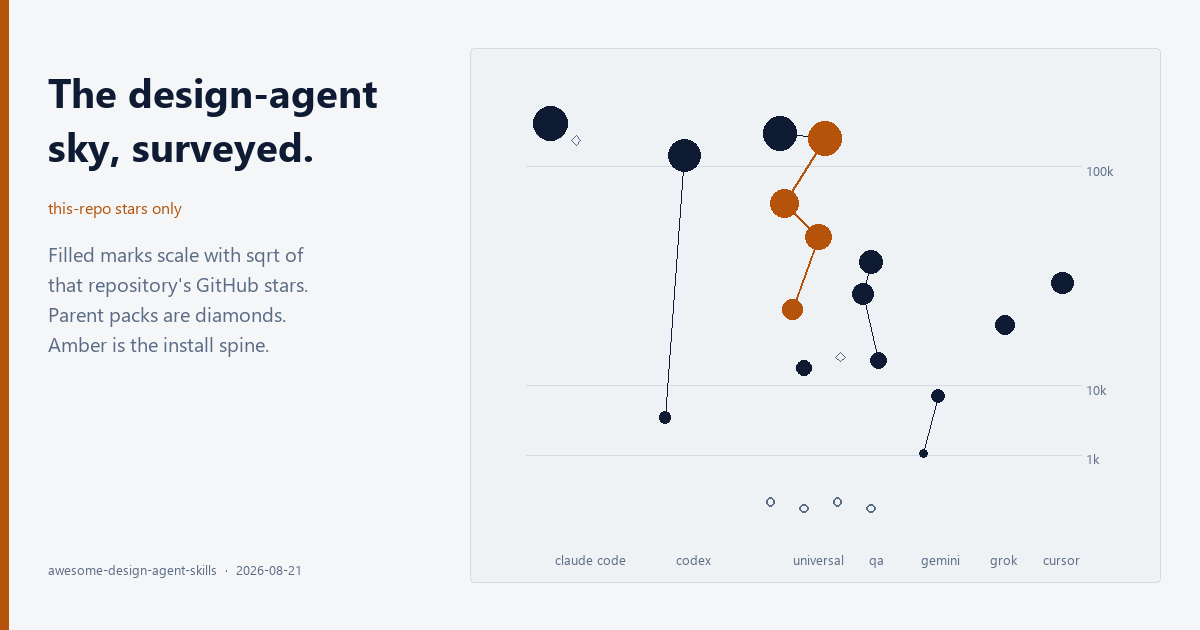
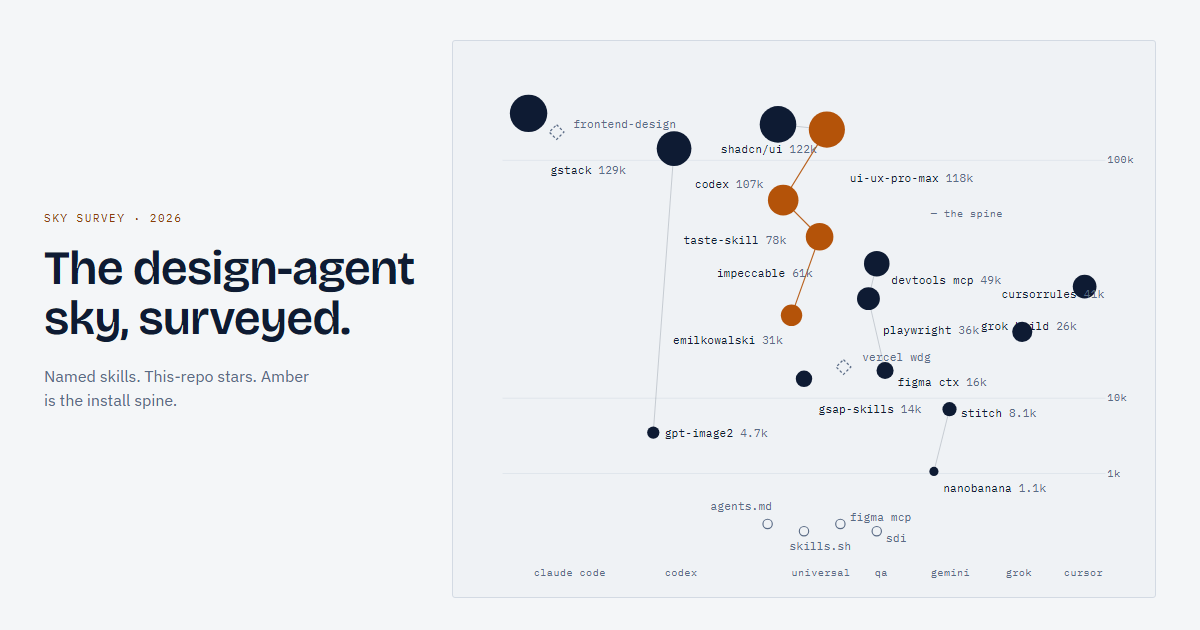
fix(og): screenshot the labeled plate instead of drawing unlabeled blobs (#11)
The first OG was a PIL scatter with no skill names — a cartoon of the
survey. og.html is now a 1200x630 artboard of the compiled plate;
render-og.py captures it with Chrome. Parent-pack star counts no longer
appear on the figure.

diff --git a/docs/site/og.html b/docs/site/og.html
@@ -1,0 +1,94 @@
+<!doctype html>
+<html lang="en">
+<head>
+<meta charset="utf-8">
+<title>OG — the design-agent sky</title>
+<link rel="preconnect" href="https://fonts.googleapis.com">
+<link rel="preconnect" href="https://fonts.gstatic.com" crossorigin>
+<link href="https://fonts.googleapis.com/css2?family=Bricolage+Grotesque:opsz,wght@12..96,600&family=IBM+Plex+Mono:wght@400;500&family=IBM+Plex+Sans:wght@400;500&display=swap" rel="stylesheet">
+<style>
+  html,body{margin:0;width:1200px;height:630px;overflow:hidden;background:#F4F6F8;color:#0E1B33}
+  body{font-family:"IBM Plex Sans",system-ui,sans-serif}
+  .board{
+    width:1200px;height:630px;box-sizing:border-box;
+    display:grid;grid-template-columns:380px 1fr;gap:28px;
+    padding:40px 44px 36px;align-items:center;
+  }
+  .kicker{font-family:"IBM Plex Mono",ui-monospace,monospace;font-size:11px;letter-spacing:.14em;
+          text-transform:uppercase;color:#8A3F07;margin:0 0 18px}
+  h1{font-family:"Bricolage Grotesque",Georgia,serif;font-weight:600;font-size:48px;line-height:1.05;
+     letter-spacing:-.015em;margin:0}
+  .note{margin-top:22px;color:#5A6B85;font-size:16px;line-height:1.45;max-width:28ch}
+  .frame{background:#EFF2F5;border:1px solid #D3DAE3;border-radius:3px;padding:10px 8px 6px}
+  svg{display:block;width:100%;height:auto}
+  svg text{font-family:"IBM Plex Mono",ui-monospace,monospace}
+  .star{fill:#0E1B33}
+  .star.spine{fill:#B45309}
+  .ringed{fill:none;stroke:#5A6B85;stroke-width:1.1}
+  .parent{fill:none;stroke:#5A6B85;stroke-width:1.2;stroke-dasharray:2.5 2}
+  .cline{stroke:#0E1B33;stroke-width:.5;opacity:.34;fill:none}
+  .cline.spine{stroke:#B45309;stroke-width:1.1;opacity:.9}
+  .grat{stroke:#D3DAE3;stroke-width:.5}
+  .lbl{fill:#0E1B33;font-size:11px}
+  .lbl .n,.lbl.n{fill:#5A6B85}
+  .axis{fill:#5A6B85;font-size:10px;letter-spacing:.03em}
+</style>
+</head>
+<body>
+<div class="board">
+  <div>
+    <p class="kicker">Sky survey · 2026</p>
+    <h1>The design-agent<br>sky, surveyed.</h1>
+    <p class="note">Named skills. This-repo stars. Amber is the install spine.</p>
+  </div>
+  <div class="frame">
+    <svg viewBox="0 0 660 520" role="img">
+<!-- plate:auto:start -->
+        <line class="grat" x1="40" y1="105.2" x2="620" y2="105.2"/>
+        <line class="grat" x1="40" y1="334.1" x2="620" y2="334.1"/>
+        <line class="grat" x1="40" y1="406.5" x2="620" y2="406.5"/>
+        <text class="axis" x="622" y="108.2">100k</text>
+        <text class="axis" x="622" y="337.1">10k</text>
+        <text class="axis" x="622" y="409.5">1k</text>
+        <text class="axis" x="70" y="505">claude code</text>
+        <text class="axis" x="196" y="505">codex</text>
+        <text class="axis" x="318" y="505">universal</text>
+        <text class="axis" x="398" y="505">qa</text>
+        <text class="axis" x="452" y="505">gemini</text>
+        <text class="axis" x="524" y="505">grok</text>
+        <text class="axis" x="580" y="505">cursor</text>
+        <polyline class="cline" points="205,93.9 185,367.1"/>
+        <polyline class="cline" points="305,70.6 352,75.6"/>
+        <polyline class="cline" points="400,204.6 392,238.3"/>
+        <polyline class="cline" points="392,238.3 408,307.4"/>
+        <polyline class="cline" points="470,344.6 455,404.5"/>
+        <polyline class="cline spine" points="352,75.6 310,143.5 345,178.7 318,254.3"/>
+        <g class="cg"><circle class="star s1" cx="65" cy="60" r="18"/><text class="lbl" x="86" y="118">gstack <tspan class="n">129k</tspan></text></g>
+        <g class="cg"><circle class="star s2" cx="305" cy="70.6" r="17.6"/><text class="lbl" x="250" y="98">shadcn/ui <tspan class="n">122k</tspan></text></g>
+        <g class="cg"><circle class="star spine s3" cx="352" cy="75.6" r="17.4"/><text class="lbl" x="374" y="126">ui-ux-pro-max <tspan class="n">118k</tspan></text></g>
+        <g class="cg"><circle class="star s4" cx="205" cy="93.9" r="16.7"/><text class="lbl" x="225" y="132">codex <tspan class="n">107k</tspan></text></g>
+        <g class="cg"><circle class="star spine s5" cx="310" cy="143.5" r="14.7"/><text class="lbl" x="214" y="186">taste-skill <tspan class="n">78k</tspan></text></g>
+        <g class="cg"><circle class="star spine s6" cx="345" cy="178.7" r="13.3"/><text class="lbl" x="246" y="217">impeccable <tspan class="n">61k</tspan></text></g>
+        <g class="cg"><circle class="star s7" cx="400" cy="204.6" r="12.3"/><text class="lbl" x="414" y="224">devtools mcp <tspan class="n">49k</tspan></text></g>
+        <g class="cg"><circle class="star s8" cx="600" cy="226.6" r="11.4"/><text class="lbl" x="520" y="238">cursorrules <tspan class="n">41k</tspan></text></g>
+        <g class="cg"><circle class="star s9" cx="392" cy="238.3" r="11"/><text class="lbl" x="406" y="272">playwright <tspan class="n">36k</tspan></text></g>
+        <g class="cg"><circle class="star spine s10" cx="318" cy="254.3" r="10.3"/><text class="lbl" x="204" y="282">emilkowalski <tspan class="n">31k</tspan></text></g>
+        <g class="cg"><circle class="star s11" cx="540" cy="270.2" r="9.7"/><text class="lbl" x="500" y="268">grok build <tspan class="n">26k</tspan></text></g>
+        <g class="cg"><circle class="star s12" cx="408" cy="307.4" r="8.2"/><text class="lbl" x="420" y="322">figma ctx <tspan class="n">16k</tspan></text></g>
+        <g class="cg"><circle class="star s13" cx="330" cy="315.4" r="7.9"/><text class="lbl" x="344" y="348">gsap-skills <tspan class="n">14k</tspan></text></g>
+        <g class="cg"><circle class="star s14" cx="470" cy="344.6" r="6.8"/><text class="lbl" x="481" y="352">stitch <tspan class="n">8.1k</tspan></text></g>
+        <g class="cg"><circle class="star s15" cx="185" cy="367.1" r="5.9"/><text class="lbl" x="196" y="371">gpt-image2 <tspan class="n">4.7k</tspan></text></g>
+        <g class="cg"><circle class="star s16" cx="455" cy="404.5" r="4.4"/><text class="lbl" x="464" y="424">nanobanana <tspan class="n">1.1k</tspan></text></g>
+        <g class="cg"><rect class="parent s17" x="87.0" y="73.0" width="10" height="10" transform="rotate(45 92 78)"/><text class="lbl n" x="108" y="74">frontend-design</text></g>
+        <g class="cg"><rect class="parent s18" x="363.0" y="299.0" width="10" height="10" transform="rotate(45 368 304)"/><text class="lbl n" x="386" y="298">vercel wdg</text></g>
+        <g class="cg"><circle class="ringed s19" cx="295" cy="455" r="4.5"/><text class="lbl n" x="240" y="442">agents.md</text></g>
+        <g class="cg"><circle class="ringed s20" cx="330" cy="462" r="4.5"/><text class="lbl n" x="316" y="480">skills.sh</text></g>
+        <g class="cg"><circle class="ringed s21" cx="365" cy="455" r="4.5"/><text class="lbl n" x="374" y="452">figma mcp</text></g>
+        <g class="cg"><circle class="ringed s22" cx="400" cy="462" r="4.5"/><text class="lbl n" x="409" y="472">sdi</text></g>
+        <text class="axis" x="452" y="160" fill="var(--signal-deep)">— the spine</text>
+        <!-- plate:auto:end -->
+    </svg>
+  </div>
+</div>
+</body>
+</html>

diff --git a/docs/site/index.html b/docs/site/index.html
@@ -241,8 +241,8 @@
         <g class="cg"><circle class="star s14" cx="470" cy="344.6" r="6.8"/><text class="lbl" x="481" y="352">stitch <tspan class="n">8.1k</tspan></text></g>
         <g class="cg"><circle class="star s15" cx="185" cy="367.1" r="5.9"/><text class="lbl" x="196" y="371">gpt-image2 <tspan class="n">4.7k</tspan></text></g>
         <g class="cg"><circle class="star s16" cx="455" cy="404.5" r="4.4"/><text class="lbl" x="464" y="424">nanobanana <tspan class="n">1.1k</tspan></text></g>
-        <g class="cg"><rect class="parent s17" x="87.0" y="73.0" width="10" height="10" transform="rotate(45 92 78)"/><text class="lbl n" x="108" y="74">frontend-design <tspan class="n">parent 171k</tspan></text></g>
-        <g class="cg"><rect class="parent s18" x="363.0" y="299.0" width="10" height="10" transform="rotate(45 368 304)"/><text class="lbl n" x="386" y="298">vercel wdg <tspan class="n">parent 30k</tspan></text></g>
+        <g class="cg"><rect class="parent s17" x="87.0" y="73.0" width="10" height="10" transform="rotate(45 92 78)"/><text class="lbl n" x="108" y="74">frontend-design</text></g>
+        <g class="cg"><rect class="parent s18" x="363.0" y="299.0" width="10" height="10" transform="rotate(45 368 304)"/><text class="lbl n" x="386" y="298">vercel wdg</text></g>
         <g class="cg"><circle class="ringed s19" cx="295" cy="455" r="4.5"/><text class="lbl n" x="240" y="442">agents.md</text></g>
         <g class="cg"><circle class="ringed s20" cx="330" cy="462" r="4.5"/><text class="lbl n" x="316" y="480">skills.sh</text></g>
         <g class="cg"><circle class="ringed s21" cx="365" cy="455" r="4.5"/><text class="lbl n" x="374" y="452">figma mcp</text></g>

diff --git a/scripts/render-og.py b/scripts/render-og.py
@@ -1,121 +1,43 @@
 #!/usr/bin/env python3
-"""Rasterize docs/site/og.png from plate.json. Light-first, 1200x630.
-No network. Geometry comes from build-plate.mjs — never hand-plotted.
+"""Render docs/site/og.png from the designed og.html artboard via Chrome headless.
+The PNG is a screenshot of the labeled plate, not a redrawn blob chart.
 """
 from __future__ import annotations
 
-import json
-import math
+import subprocess
+import sys
 from pathlib import Path
 
-from PIL import Image, ImageDraw, ImageFont
-
 HERE = Path(__file__).resolve().parent
-PLATE = HERE.parent / "docs" / "site" / "plate.json"
-OUT = HERE.parent / "docs" / "site" / "og.png"
-
-PAPER = (244, 246, 248)
-INK = (14, 27, 51)
-SIGNAL = (180, 83, 9)
-DIM = (90, 107, 133)
-RULE = (211, 218, 227)
-PLATE_BG = (239, 242, 245)
-
-W, H = 1200, 630
-
-
-def font(size: int, bold: bool = False) -> ImageFont.FreeTypeFont | ImageFont.ImageFont:
-    candidates = []
-    if bold:
-        candidates += [
-            r"C:\Windows\Fonts\segoeuib.ttf",
-            r"C:\Windows\Fonts\arialbd.ttf",
-            "/usr/share/fonts/truetype/dejavu/DejaVuSans-Bold.ttf",
-        ]
-    candidates += [
-        r"C:\Windows\Fonts\segoeui.ttf",
-        r"C:\Windows\Fonts\arial.ttf",
-        r"C:\Windows\Fonts\consola.ttf",
-        "/usr/share/fonts/truetype/dejavu/DejaVuSans.ttf",
-    ]
-    for p in candidates:
-        try:
-            return ImageFont.truetype(p, size)
-        except OSError:
-            continue
-    return ImageFont.load_default()
+SITE = HERE.parent / "docs" / "site"
+HTML = SITE / "og.html"
+OUT = SITE / "og.png"
+CHROME = Path(r"C:\Program Files\Google\Chrome\Application\chrome.exe")
 
 
 def main() -> None:
-    data = json.loads(PLATE.read_text(encoding="utf-8"))
-    desk = data["desktop"]
-    im = Image.new("RGB", (W, H), PAPER)
-    d = ImageDraw.Draw(im)
-
-    d.rectangle((0, 0, 8, H), fill=SIGNAL)
-
-    title = font(40, bold=True)
-    sub = font(20)
-    mono = font(16)
-    tiny = font(13)
-
-    d.text((48, 64), "The design-agent", font=title, fill=INK)
-    d.text((48, 118), "sky, surveyed.", font=title, fill=INK)
-    d.text((48, 196), "this-repo stars only", font=mono, fill=SIGNAL)
-    d.multiline_text(
-        (48, 240),
-        "Filled marks scale with sqrt of\nthat repository's GitHub stars.\nParent packs are diamonds.\nAmber is the install spine.",
-        font=sub,
-        fill=DIM,
-        spacing=8,
-    )
-    d.text((48, 560), f"awesome-design-agent-skills  ·  {data['auditDate']}", font=tiny, fill=DIM)
-
-    # Plate panel
-    ox, oy, pw, ph = 470, 48, 690, 534
-    d.rounded_rectangle((ox, oy, ox + pw, oy + ph), radius=4, fill=PLATE_BG, outline=RULE, width=1)
-
-    vb = desk["viewBox"]
-    scale = min((pw - 36) / vb[2], (ph - 36) / vb[3])
-    tx = ox + 18
-    ty = oy + 18
-
-    def P(x, y):
-        return (tx + x * scale, ty + y * scale)
-
-    for g in desk["grats"]:
-        x1, y = P(40, g["y"])
-        x2, _ = P(620, g["y"])
-        d.line((x1, y, x2, y), fill=RULE, width=1)
-        d.text((x2 + 4, y - 6), g["label"], font=tiny, fill=DIM)
-
-    for b in desk["bands"]:
-        x, y = P(b["x"], 505)
-        d.text((x, y), b["t"], font=tiny, fill=DIM)
-
-    for ln in desk["lines"]:
-        if ln.get("spine"):
-            pts = [P(p["x"], p["y"]) for p in ln["pts"]]
-            if len(pts) >= 2:
-                d.line(pts, fill=SIGNAL, width=2)
-        else:
-            d.line((P(ln["x1"], ln["y1"]), P(ln["x2"], ln["y2"])), fill=(*INK, ), width=1)
-
-    for n in desk["nodes"]:
-        x, y = P(n["cx"], n["cy"])
-        r = max(2.5, n["r"] * scale)
-        if n["kind"] == "ring":
-            d.ellipse((x - r, y - r, x + r, y + r), outline=DIM, width=2)
-        elif n["kind"] == "parent":
-            s = 5 * scale
-            diamond = [(x, y - s), (x + s, y), (x, y + s), (x - s, y)]
-            d.polygon(diamond, outline=DIM)
-        else:
-            fill = SIGNAL if n["spine"] else INK
-            d.ellipse((x - r, y - r, x + r, y + r), fill=fill)
-
-    im.save(OUT, "PNG", optimize=True)
-    print(f"wrote {OUT} {im.size} from {PLATE.name} maxS={data['maxS']}")
+    if not HTML.exists():
+        sys.exit(f"missing {HTML} — run node docs/site/build-plate.mjs first")
+    if not CHROME.exists():
+        sys.exit(f"missing Chrome at {CHROME}")
+    OUT.unlink(missing_ok=True)
+    html_uri = HTML.resolve().as_uri()
+    cmd = [
+        str(CHROME),
+        "--headless=new",
+        "--disable-gpu",
+        "--hide-scrollbars",
+        "--force-device-scale-factor=1",
+        "--window-size=1200,630",
+        "--default-background-color=F4F6F8",
+        "--virtual-time-budget=8000",
+        f"--screenshot={OUT}",
+        html_uri,
+    ]
+    subprocess.run(cmd, check=True, capture_output=True)
+    if not OUT.exists() or OUT.stat().st_size < 4000:
+        sys.exit(f"screenshot failed: {OUT}")
+    print(f"wrote {OUT} ({OUT.stat().st_size} bytes) from {HTML.name}")
 
 
 if __name__ == "__main__":

diff --git a/docs/site/DESIGN.md b/docs/site/DESIGN.md
@@ -31,4 +31,4 @@ Surface: public landing page for the registry (`index.html`, standalone, GitHub-
 
 Follow-ups: capture desktop/mobile screenshots when a compositing pane is available.
 
-2026-08-21: plate scale is this-repo only (max = gstack). Parent-pack marks are dashed diamonds. `/studio` retired in favor of `/pwo`. Mobile plate and caption compile from the same registry. OG 1200x630 rasters from `plate.json` (not a generated stand-in).
+2026-08-21: plate scale is this-repo only (max = gstack). Parent-pack marks are dashed diamonds without parent star counts on the figure. `/studio` retired in favor of `/pwo`. Mobile plate compiles from the registry. OG is a 1200×630 screenshot of `og.html` (the labeled plate), not a redrawn blob chart.
